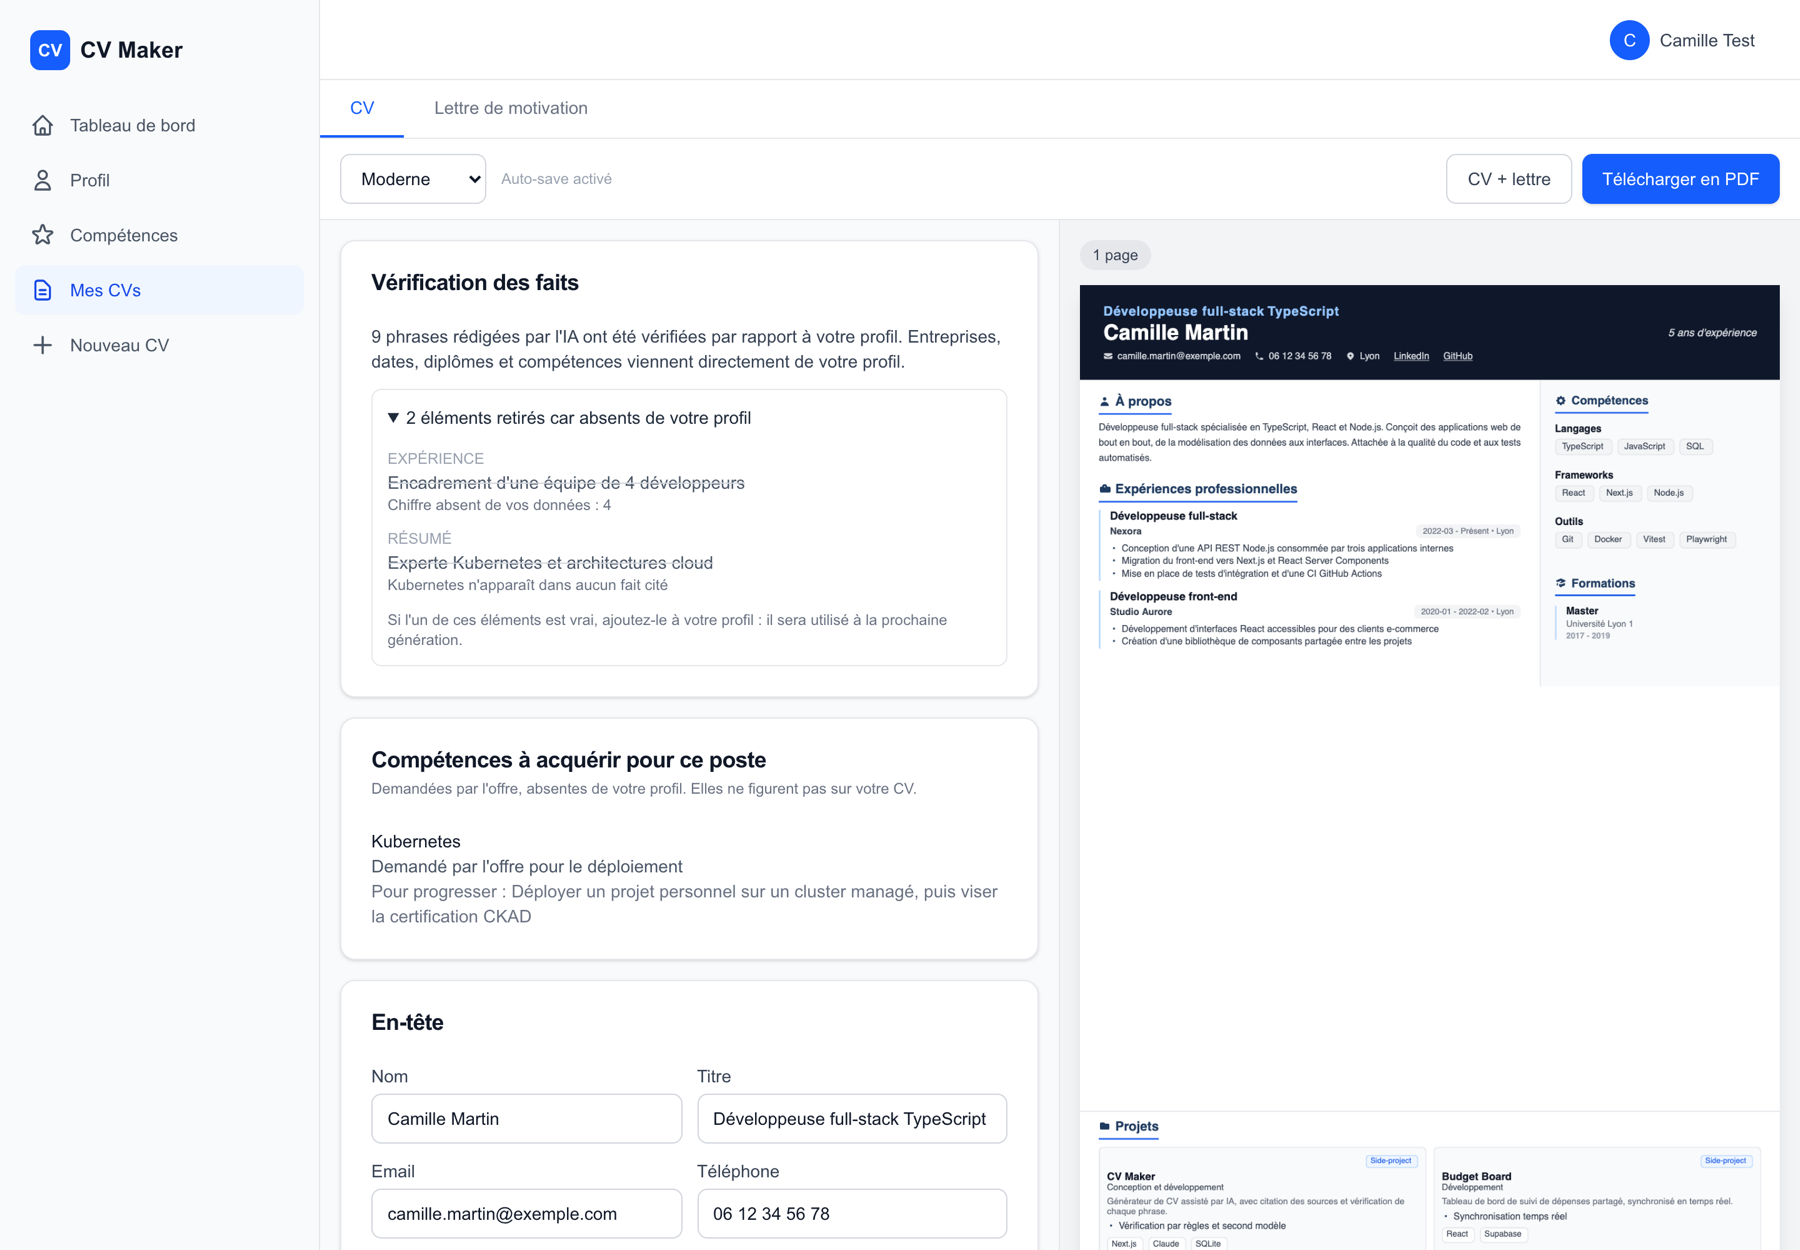
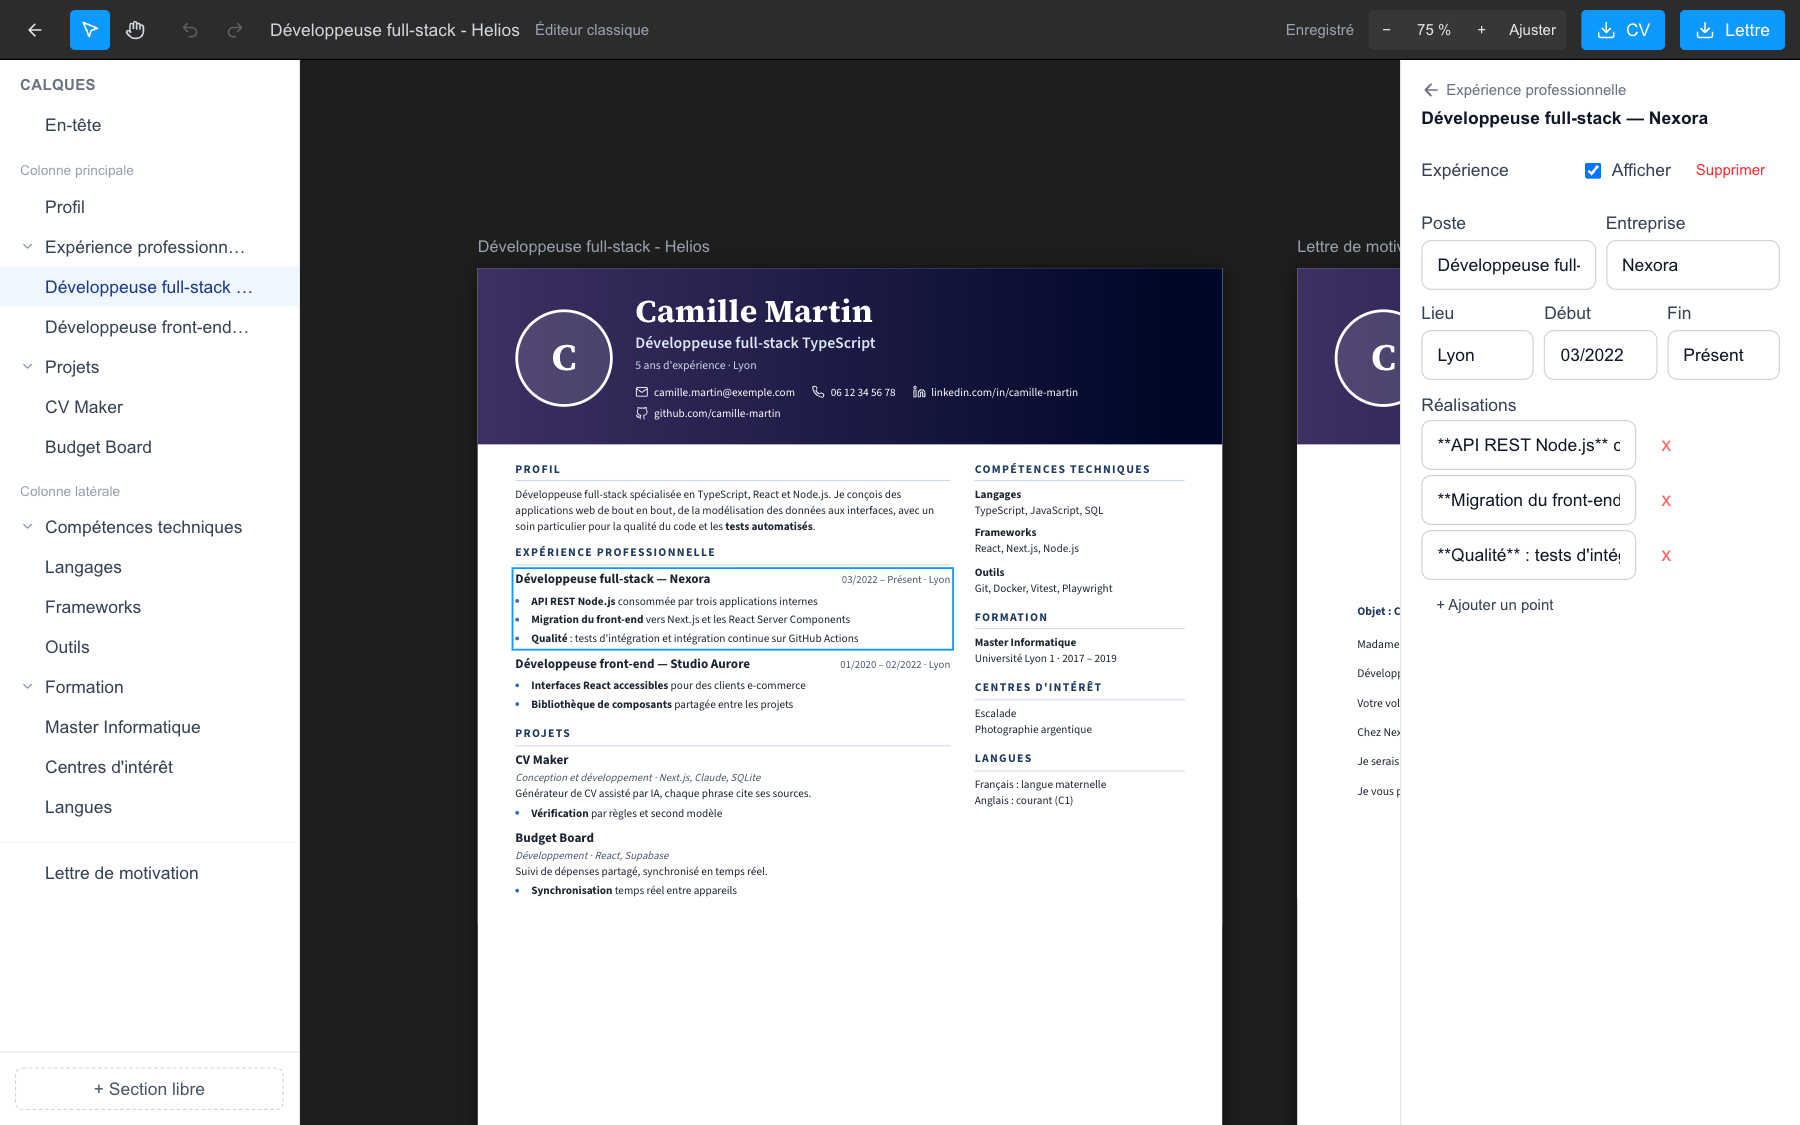
chore(cv): lift the two-project limit and refresh the README screenshot
- Every shown project now appears on the CV: the cap of two came from the
  old react-pdf layout (two cards side by side). Generation still starts
  with Claude's two best picks shown (SUGGESTED_SECTION_PROJECTS), the
  others hidden and one click away
- The download page is a 404 again for a CV not generated yet
- README screenshot of the studio, with a fictional profile

diff --git a/components/cv/cv-editor.tsx b/components/cv/cv-editor.tsx
@@ -14,7 +14,7 @@ import { useCvAutosave, type AutosaveStatus } from "@/hooks/use-cv-autosave";
 import { cvReducer } from "@/lib/cv/reducer";
 import { VARIANTS } from "@/lib/cv/variants";
 import { cn } from "@/lib/utils";
-import { MAX_SECTION_PROJECTS, applyVisibility, isInProjectsSection } from "@/lib/cv/visibility";
+import { applyVisibility } from "@/lib/cv/visibility";
 import type { CvData, CvSection, GenerationReport, TemplateId } from "@/types/cv";
 import { PdfDownloadButton } from "./pdf-download-button";
 import { GenerationReportPanel } from "./generation-report";
@@ -61,7 +61,6 @@ export function CvEditor({ cvId, initialData, initialTemplateId, generationRepor
     router.push(`/cv/${cvId}/pdf`);
   };
 
-  const sectionProjectsShown = cvData.projects.filter((p) => !p.hidden && isInProjectsSection(p)).length;
 
   return (
     <div className="flex flex-col h-full">
@@ -180,11 +179,6 @@ export function CvEditor({ cvId, initialData, initialTemplateId, generationRepor
             onToggleShown={() => dispatch({ type: "TOGGLE_SHOW_PROJECTS" })}
             className="space-y-6"
           >
-            <p className={`text-xs ${sectionProjectsShown > MAX_SECTION_PROJECTS ? "text-amber-700" : "text-gray-500"}`}>
-              {sectionProjectsShown > MAX_SECTION_PROJECTS
-                ? `Seuls les ${MAX_SECTION_PROJECTS} premiers projets du bloc Projets apparaissent sur le CV : masquez-en un ou placez-le sous une expérience.`
-                : `Le bloc Projets affiche ${MAX_SECTION_PROJECTS} projets au maximum.`}
-            </p>
             {cvData.projects.map((project, index) => (
               <ItemBlock key={project.id} hidden={project.hidden} className="space-y-3">
                 <ItemHeader
@@ -193,12 +187,6 @@ export function CvEditor({ cvId, initialData, initialTemplateId, generationRepor
                   onToggleHidden={() => dispatch({ type: "TOGGLE_PROJECT_HIDDEN", index })}
                   onRemove={() => dispatch({ type: "REMOVE_PROJECT", index })}
                   confirmRemove="Supprimer ce projet ?"
-                  toggleDisabled={
-                    project.hidden &&
-                    sectionProjectsShown >= MAX_SECTION_PROJECTS &&
-                    isInProjectsSection(project)
-                  }
-                  toggleDisabledReason={`${MAX_SECTION_PROJECTS} projets déjà affichés dans le bloc Projets`}
                 />
                 <ProjectFields
                   project={project}

diff --git a/lib/cv/visibility.ts b/lib/cv/visibility.ts
@@ -1,8 +1,5 @@
 import type { CvData, CvProject } from "@/types/cv";
 
-/** The projects section is one row at the bottom of the page: at most two cards side by side. */
-export const MAX_SECTION_PROJECTS = 2;
-
 export function isInProjectsSection(project: CvProject): boolean {
   return !project.displayMode || project.displayMode === "projects-section";
 }
@@ -29,22 +26,13 @@ export function applyVisibility(data: CvData): CvData {
       : Object.fromEntries(
           Object.entries(data.skills).filter(([category]) => !hiddenCategories.has(category))
         ),
-    projects: limitSectionProjects(
-      // A project shown under an experience that is hidden goes back to the projects section
-      projects.map((p) =>
-        p.displayMode === "under-experience" &&
-        (!p.linkedExperienceId || !experienceIds.has(p.linkedExperienceId))
-          ? { ...p, displayMode: "projects-section" }
-          : p
-      )
+    // A project shown under an experience that is hidden goes back to the projects section
+    projects: projects.map((p) =>
+      p.displayMode === "under-experience" && (!p.linkedExperienceId || !experienceIds.has(p.linkedExperienceId))
+        ? { ...p, displayMode: "projects-section" }
+        : p
     ),
     interests: hidden.has("interests") ? [] : data.interests,
     customSections: data.customSections?.filter((s) => !s.hidden),
   };
-}
-
-/** Keeps the first MAX_SECTION_PROJECTS projects of the section; those under an experience are not counted. */
-function limitSectionProjects(projects: CvProject[]): CvProject[] {
-  let inSection = 0;
-  return projects.filter((p) => !isInProjectsSection(p) || ++inSection <= MAX_SECTION_PROJECTS);
 }

diff --git a/lib/ai/cv.ts b/lib/ai/cv.ts
@@ -1,7 +1,6 @@
 import { parseList, type FactCatalog } from "./facts";
 import type { CvDraft, SourcedText } from "./schemas";
 import type { Claim } from "./verify";
-import { MAX_SECTION_PROJECTS } from "@/lib/cv/visibility";
 import type { CvData, CvExperience, CvProject, ProjectLink, ProjectType } from "@/types/cv";
 
 /**
@@ -10,9 +9,12 @@ import type { CvData, CvExperience, CvProject, ProjectLink, ProjectType } from "
  * always come from the database. Claude's sentences are kept only when they
  * passed verification; otherwise the candidate's own words are used.
  * Experiences and projects Claude left out are kept, hidden, so the user can
- * show them again from the editor. The projects section shows at most
- * MAX_SECTION_PROJECTS of Claude's picks; the others are hidden the same way.
+ * show them again from the editor. The projects section starts with at most
+ * SUGGESTED_SECTION_PROJECTS of Claude's picks, so the CV fits on one page;
+ * the others are hidden the same way, and can be shown.
  */
+export const SUGGESTED_SECTION_PROJECTS = 2;
+
 export function assembleCv(
   draft: CvDraft,
   catalog: FactCatalog,
@@ -71,7 +73,7 @@ export function assembleCv(
       : null;
     const displayMode = linkedExperienceId && row.displayMode === "under-experience" ? "under-experience" : "projects-section";
     const shown =
-      !!chosen && (displayMode === "under-experience" || ++sectionProjectsShown <= MAX_SECTION_PROJECTS);
+      !!chosen && (displayMode === "under-experience" || ++sectionProjectsShown <= SUGGESTED_SECTION_PROJECTS);
     return {
       id,
       name: row.name,

diff --git a/lib/ai/prompts.ts b/lib/ai/prompts.ts
@@ -2,7 +2,7 @@ import type { CompanyInfo, JobAnalysis } from "@/types/job";
 import type { CvData } from "@/types/cv";
 import { formatFactsForPrompt, type FactCatalog } from "./facts";
 import type { Claim } from "./verify";
-import { MAX_SECTION_PROJECTS } from "@/lib/cv/visibility";
+import { SUGGESTED_SECTION_PROJECTS } from "./cv";
 
 interface SkillForPrompt {
   name: string;
@@ -94,7 +94,7 @@ ${formatFactsForPrompt(catalog)}
 - Une réalisation d'une expérience ne cite que les faits de cette expérience (ou d'un projet qui lui est rattaché). Idem pour un projet.
 - Les mots-clés de l'offre ne s'utilisent que s'ils correspondent à un fait réel.
 - Choisis les expériences et projets les plus pertinents ; ceux que tu omets restent disponibles pour le candidat.
-- Le CV tient sur une page : choisis au plus ${MAX_SECTION_PROJECTS} projets, du plus pertinent au moins pertinent.
+- Le CV tient sur une page : choisis au plus ${SUGGESTED_SECTION_PROJECTS} projets, du plus pertinent au moins pertinent.
 - Regroupe les compétences du candidat (et uniquement les siennes) par catégorie.
 - skillsToAcquire : compétences demandées par le poste que le candidat n'a PAS d'après les faits. C'est un conseil séparé du CV : ne les mentionne nulle part ailleurs.
 - Rédige en français.`;

diff --git a/lib/cv/load.ts b/lib/cv/load.ts
@@ -2,13 +2,15 @@ import "server-only";
 import { eq } from "drizzle-orm";
 import { db } from "@/lib/db";
 import { generatedCvs, users } from "@/lib/db/schema";
-import { normalizeCvData } from "@/lib/cv/normalize";
+import { isGeneratedCv, normalizeCvData } from "@/lib/cv/normalize";
 import type { CoverLetterData, CvData, GenerationReport, TemplateId } from "@/types/cv";
 
 export interface LoadedCv {
   id: string;
   title: string;
   templateId: TemplateId;
+  /** False for a draft whose CV is not generated yet */
+  generated: boolean;
   cvData: CvData;
   generationReport: GenerationReport | null;
   coverLetterData: CoverLetterData | null;
@@ -34,6 +36,7 @@ export async function loadUserCv(cvId: string, userId: string): Promise<LoadedCv
     id: cv.id,
     title: cv.title,
     templateId: cv.templateId as TemplateId,
+    generated: isGeneratedCv(cv.cvData),
     cvData,
     generationReport: parseJson<GenerationReport>(cv.generationReport),
     coverLetterData: parseJson<CoverLetterData>(cv.coverLetterData),

diff --git a/tests/unit/normalize.test.ts b/tests/unit/normalize.test.ts
@@ -1,5 +1,5 @@
 import { describe, it, expect } from "vitest";
-import { emptyCvData, normalizeCvData } from "@/lib/cv/normalize";
+import { emptyCvData, isGeneratedCv, normalizeCvData } from "@/lib/cv/normalize";
 import { buildCvData } from "../helpers/fixtures";
 
 describe("normalizeCvData", () => {
@@ -39,5 +39,13 @@ describe("normalizeCvData", () => {
     expect(cv.hiddenSections).toEqual(["summary"]);
     expect(cv.hiddenSkillCategories).toEqual(["Outils"]);
     expect(cv.projects[0]).toMatchObject({ id: "p1", name: "CV Maker", hidden: true, highlights: [] });
+  });
+});
+
+describe("isGeneratedCv", () => {
+  it("distingue un brouillon pas encore généré d'un CV généré", () => {
+    expect(isGeneratedCv("{}")).toBe(false);
+    expect(isGeneratedCv("pas du json")).toBe(false);
+    expect(isGeneratedCv(JSON.stringify(buildCvData()))).toBe(true);
   });
 });

diff --git a/components/cv/templates-html/executive-template.tsx b/components/cv/templates-html/executive-template.tsx
@@ -1,6 +1,7 @@
 import type { CvField } from "@/lib/cv/fields";
 import { parseCustomSectionId, resolveLayout } from "@/lib/cv/layout";
 import { selectionKey } from "@/lib/cv/selection";
+import { isInProjectsSection } from "@/lib/cv/visibility";
 import type { CvData, CvProject, SectionId, TemplateId } from "@/types/cv";
 import { Editable, WhenFilled } from "./editable";
 import styles from "./executive-template.module.css";
@@ -279,7 +280,7 @@ function Section({ id, data, editable }: { id: SectionId; data: CvData; editable
       );
 
     case "projects": {
-      const projects = data.projects.filter((p) => !p.displayMode || p.displayMode === "projects-section");
+      const projects = data.projects.filter(isInProjectsSection);
       return (
         projects.length > 0 && (
           <section data-select={key}>

diff --git a/components/cv/editor/item-header.tsx b/components/cv/editor/item-header.tsx
@@ -10,8 +10,6 @@ export function ItemHeader({
   onToggleHidden,
   onRemove,
   confirmRemove,
-  toggleDisabled,
-  toggleDisabledReason,
 }: {
   title: string;
   hidden: boolean;
@@ -19,8 +17,6 @@ export function ItemHeader({
   onRemove: () => void;
   /** Question asked before deleting */
   confirmRemove: string;
-  toggleDisabled?: boolean;
-  toggleDisabledReason?: string;
 }) {
   return (
     <div className="flex items-center justify-between">
@@ -30,8 +26,6 @@ export function ItemHeader({
           label="Afficher"
           checked={!hidden}
           onChange={onToggleHidden}
-          disabled={toggleDisabled}
-          disabledReason={toggleDisabledReason}
         />
         <Button
           variant="ghost"

diff --git a/tests/unit/visibility.test.ts b/tests/unit/visibility.test.ts
@@ -80,7 +80,7 @@ describe("applyVisibility", () => {
     expect(applyVisibility(data).projects[0].displayMode).toBe("projects-section");
   });
 
-  it("garde au plus 2 projets dans la section projets, sans compter ceux sous une expérience", () => {
+  it("garde tous les projets affichés, sans limite de nombre", () => {
     const data = cv({
       projects: [
         project({ id: "p1" }),
@@ -91,7 +91,7 @@ describe("applyVisibility", () => {
       ],
     });
 
-    expect(applyVisibility(data).projects.map((p) => p.id)).toEqual(["p1", "p2", "p3"]);
+    expect(applyVisibility(data).projects.map((p) => p.id)).toEqual(["p1", "p2", "p3", "p4"]);
   });
 
   it("ne modifie pas les données de l'éditeur", () => {

diff --git a/tests/e2e/cv-preview.spec.ts b/tests/e2e/cv-preview.spec.ts
@@ -51,7 +51,7 @@ async function downloadedPageCount(page: import("@playwright/test").Page) {
 }
 
 test("l'aperçu HTML annonce les pages, comme le PDF téléchargé", async ({ page, user }) => {
-  // The projects section is capped at two projects, so the length comes from the experiences
+  // A long CV, from its experiences
   const cvId = insertCv(user.email, 1, null, 12);
   await page.goto(`/cv/${cvId}`);
 

diff --git a/lib/cv/normalize.ts b/lib/cv/normalize.ts
@@ -97,3 +97,12 @@ export function normalizeCvData(json: string): CvData {
       : {}),
   };
 }
+
+/** Whether the CV was generated yet: before, it is stored as "{}". */
+export function isGeneratedCv(json: string): boolean {
+  try {
+    return Boolean(JSON.parse(json)?.header);
+  } catch {
+    return false;
+  }
+}

diff --git a/app/(dashboard)/cv/[id]/pdf/page.tsx b/app/(dashboard)/cv/[id]/pdf/page.tsx
@@ -15,7 +15,8 @@ export default async function PdfPage({ params }: PageProps<"/cv/[id]/pdf">) {
   const userId = await verifySession();
 
   const cv = await loadUserCv(id, userId);
-  if (!cv) {
+  // Nothing to preview or download before the CV is generated
+  if (!cv || !cv.generated) {
     notFound();
   }
 
